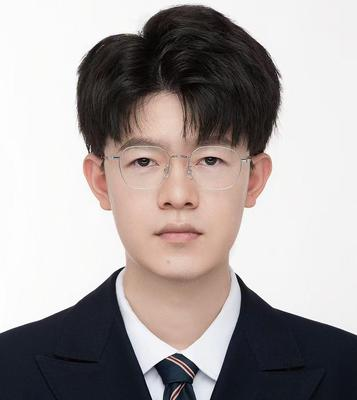
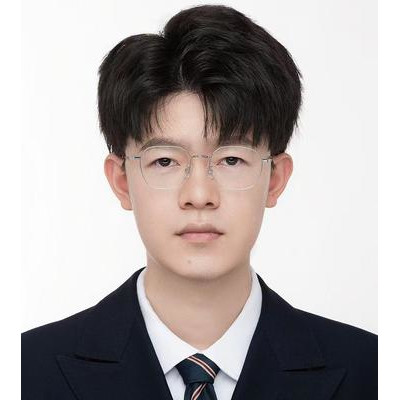
📃 docs: feishu docs 20241029

diff --git a/_sass/_base.scss b/_sass/_base.scss
@@ -813,9 +813,9 @@ ol.bibliography {
       transition: all 0.15s ease;
     }
 
-    div.abstract.hidden {
-      border: dashed 1px var(--global-bg-color);
-    }
+    // div.abstract.hidden {
+    //   border: dashed 1px var(--global-bg-color);
+    // }
 
     div.abstract.hidden.open {
       border-color: var(--global-text-color);

diff --git a/_pages/profiles.md b/_pages/profiles.md
@@ -171,10 +171,10 @@ students:
     text_muted: 2014 - 2018 (co-supervised with <a href="https://www.cs.helsinki.fi/u/jilu/">Jiaheng Lu</a>)
   - name: Hanzhi Wang
     native_written_name: 王涵之
-    image: hanzhi.jpg
+    image: hanzhi2.jpg
     link: https://wanghzccls.github.io/
     more_info: >
-      <li>Dissertation: <cite>Efficient Random-Walk Probability Computations on Large-Scale Graphs</cite> (大图上随机游走概率的高效计算)</li><li>Awards: Baidu Scholarship, MSRA Fellowship, Wu Yuzhang Scholarship, National Scholarship</li>
+      <li>Postdoc Researcher at <a href="https://barc.ku.dk/">BARC (Basic Algorithm Research Copenhagen)</a>, <a href="https://www.ku.dk/english/">University of Copenhagen</a></li><li>Dissertation: <cite>Efficient Random-Walk Probability Computations on Large-Scale Graphs</cite> (大图上随机游走概率的高效计算)</li><li>Awards: Baidu Scholarship, MSRA Fellowship, Wu Yuzhang Scholarship, National Scholarship</li>
     category: Graduated PhD Students
     text_muted: 2019 - 2024
   - name: Yanping Zheng
